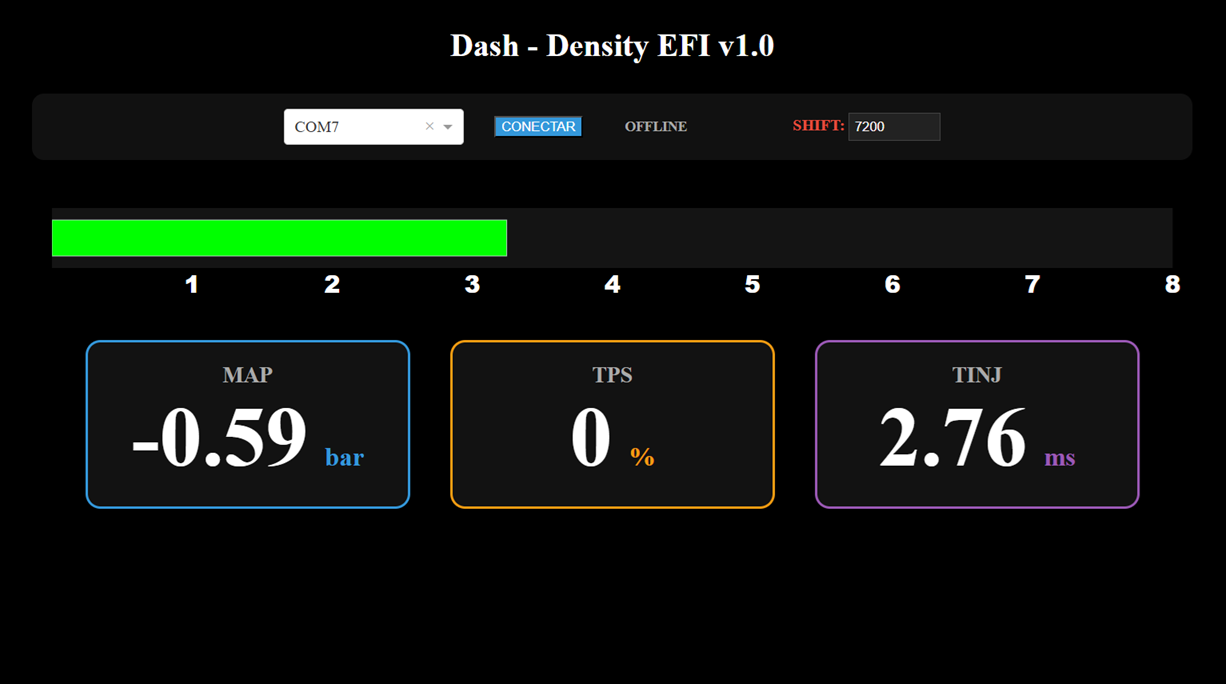
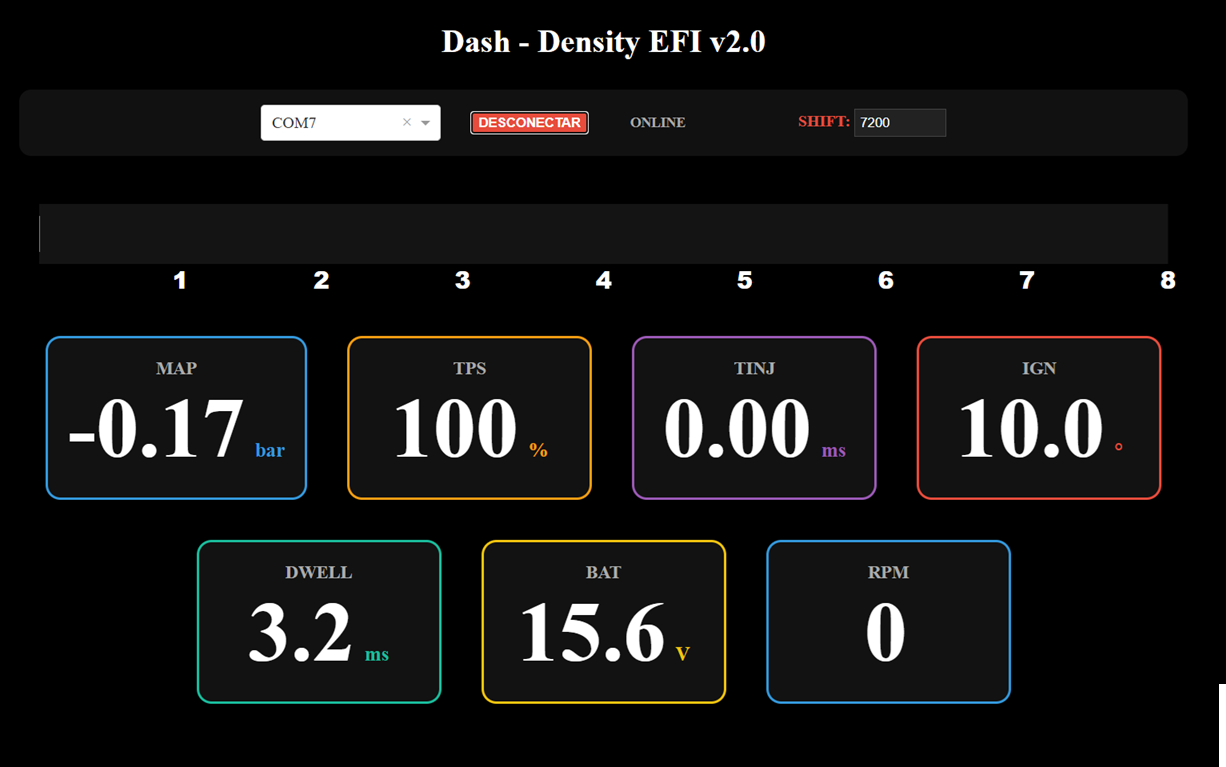
Add battery/ignition telemetry and UI v2.0
Dashboard: expand telemetry to include IGN, DWELL and BAT; parse 7 CSV values from serial and add corresponding UI cards (IGN, DWELL, BAT, large RPM card). Adjusted render_card to support large/small styles, updated layout and styling, renamed heading to v2.0, improved connect button styles, split card rows, and bind app to 127.0.0.1:8050. Firmware: add battery sensor constants and lerTensaoBateria() using a resistor divider, read battery voltage and include it (with IGN and DWELL) in the serial telemetry stream as: RPM,MAP,TPS,TINJ,IGN,DWELL,BAT. Also update Dashboard.png (binary asset changed).

diff --git a/Dashboard/DashV1.py b/Dashboard/DashV1.py
@@ -8,7 +8,15 @@ import threading
 import time
 
 # ================= CONFIG GLOBAL =================
-serial_data = {"RPM": 0, "MAP": 0.0, "TPS": 0.0, "TINJ": 0.0}
+serial_data = {
+    "RPM": 0, 
+    "MAP": 0.0, 
+    "TPS": 0.0, 
+    "TINJ": 0.0,
+    "IGN": 0.0,
+    "DWELL": 0.0,
+    "BAT": 0.0
+}
 last_data_time = 0 
 connection_active = False
 ser_instance = None
@@ -23,15 +31,19 @@ def serial_reader():
                     line = ser_instance.readline().decode(errors="ignore").strip()
                     if line:
                         parts = line.split(",")
-                        if len(parts) == 4:
+                        if len(parts) == 7:  # Agora esperamos 7 valores
                             try:
                                 with data_lock:
-                                    serial_data["RPM"]  = float(parts[0])
-                                    serial_data["MAP"]  = float(parts[1])
-                                    serial_data["TPS"]  = float(parts[2])
-                                    serial_data["TINJ"] = float(parts[3])
+                                    serial_data["RPM"]   = float(parts[0])
+                                    serial_data["MAP"]   = float(parts[1])
+                                    serial_data["TPS"]   = float(parts[2])
+                                    serial_data["TINJ"]  = float(parts[3])
+                                    serial_data["IGN"]   = float(parts[4])
+                                    serial_data["DWELL"] = float(parts[5])
+                                    serial_data["BAT"]   = float(parts[6])
                                 last_data_time = time.time()
-                            except: pass
+                            except:
+                                pass
             except:
                 connection_active = False
         time.sleep(0.01)
@@ -52,21 +64,34 @@ def create_rpm_bar(value, shift_limit, n_intervals):
                    tickvals=[1000, 2000, 3000, 4000, 5000, 6000, 7000, 8000],
                    ticktext=["1", "2", "3", "4", "5", "6", "7", "8"],
                    tickfont=dict(color="white", size=24, family="Arial Black")),
-        yaxis=dict(visible=False), plot_bgcolor="rgba(40, 40, 40, 0.5)",
-        paper_bgcolor="rgba(0,0,0,0)", margin=dict(l=20, r=20, t=10, b=30), height=100
+        yaxis=dict(visible=False), 
+        plot_bgcolor="rgba(40, 40, 40, 0.5)",
+        paper_bgcolor="rgba(0,0,0,0)", 
+        margin=dict(l=20, r=20, t=10, b=30), 
+        height=100
     )
     return fig
 
-def render_card(label, value, unit, border_color):
+def render_card(label, value, unit, border_color, large=True):
+    if large:
+        value_style = {"color": "white", "fontSize": "85px", "fontWeight": "bold"}
+    else:
+        value_style = {"color": "white", "fontSize": "45px", "fontWeight": "bold"}
+    
     return html.Div(style={
-        "backgroundColor": "rgba(20, 20, 20, 0.9)", "border": f"3px solid {border_color}",
-        "borderRadius": "15px", "padding": "20px", "margin": "10px", "flex": "1",
-        "textAlign": "center", "minWidth": "280px"
+        "backgroundColor": "rgba(20, 20, 20, 0.9)", 
+        "border": f"3px solid {border_color}",
+        "borderRadius": "15px", 
+        "padding": "20px", 
+        "margin": "10px", 
+        "flex": "1",
+        "textAlign": "center", 
+        "minWidth": "200px"
     }, children=[
-        html.Div(label.upper(), style={"color": "#AAA", "fontSize": "22px", "fontWeight": "900"}),
+        html.Div(label.upper(), style={"color": "#AAA", "fontSize": "18px", "fontWeight": "900"}),
         html.Div([
-            html.Span(value, style={"color": "white", "fontSize": "85px", "fontWeight": "bold"}),
-            html.Span(f" {unit}", style={"color": border_color, "fontSize": "26px", "fontWeight": "bold", "marginLeft": "10px"})
+            html.Span(value, style=value_style),
+            html.Span(f" {unit}", style={"color": border_color, "fontSize": "20px", "fontWeight": "bold", "marginLeft": "5px"})
         ])
     ])
 
@@ -76,12 +101,13 @@ app = dash.Dash(__name__)
 
 app.layout = html.Div(style={"backgroundColor": "#000", "minHeight": "100vh", "padding": "20px 40px"}, children=[
     
-    html.H1("Dash - Density EFI v1.0", style={"textAlign": "center", "color": "white", "fontWeight": "bold", "marginBottom": "30px"}),
+    html.H1("Dash - Density EFI v2.0", style={"textAlign": "center", "color": "white", "fontWeight": "bold", "marginBottom": "30px"}),
 
     # Toolbar
     html.Div(style={
         "display": "flex", "justifyContent": "center", "alignItems": "center", 
-        "gap": "30px", "marginBottom": "40px", "padding": "15px", "backgroundColor": "#111", "borderRadius": "12px"
+        "gap": "30px", "marginBottom": "40px", "padding": "15px", 
+        "backgroundColor": "#111", "borderRadius": "12px"
     }, children=[
         dcc.Dropdown(
             id='port-dropdown',
@@ -91,10 +117,11 @@ app.layout = html.Div(style={"backgroundColor": "#000", "minHeight": "100vh", "p
         ),
 
         html.Button("CONECTAR", id="btn-connect", n_clicks=0, style={
-            "fontSize": "16px", "fontWeight": "bold", "padding": "10px 20px", "borderRadius": "8px", "border": "none"
+            "fontSize": "16px", "fontWeight": "bold", "padding": "10px 20px", 
+            "borderRadius": "8px", "border": "none"
         }),
 
-        # LED e Status corrigidos
+        # LED e Status
         html.Div(style={"display": "flex", "alignItems": "center", "gap": "12px", "minWidth": "150px"}, children=[
             html.Div(id="led-indicator", style={
                 "width": "15px", "height": "15px", "borderRadius": "50%", "transition": "all 0.3s"
@@ -105,17 +132,27 @@ app.layout = html.Div(style={"backgroundColor": "#000", "minHeight": "100vh", "p
         html.Div([
             html.Label("SHIFT: ", style={"fontWeight": "bold", "color": "#e74c3c"}),
             dcc.Input(id="shift-input", type="number", value=7200, style={
-                "backgroundColor": "#222", "color": "white", "border": "1px solid #444", "padding": "5px", "width": "80px"
+                "backgroundColor": "#222", "color": "white", "border": "1px solid #444", 
+                "padding": "5px", "width": "80px"
             })
         ])
     ]),
 
     dcc.Graph(id="rpm-bar", config={'displayModeBar': False}),
 
+    # Primeira linha de cards (4 cards)
     html.Div(style={"display": "flex", "flexWrap": "wrap", "justifyContent": "center", "gap": "20px", "marginTop": "30px"}, children=[
         html.Div(id="map-container"),
         html.Div(id="tps-container"),
-        html.Div(id="tinj-container")
+        html.Div(id="tinj-container"),
+        html.Div(id="ign-container")
+    ]),
+    
+    # Segunda linha de cards (3 cards)
+    html.Div(style={"display": "flex", "flexWrap": "wrap", "justifyContent": "center", "gap": "20px", "marginTop": "20px"}, children=[
+        html.Div(id="dwell-container"),
+        html.Div(id="bat-container"),
+        html.Div(id="rpm-container")  # Card extra mostrando RPM em formato grande
     ]),
 
     dcc.Interval(id="update-timer", interval=100),
@@ -136,17 +173,26 @@ def handle_btn(n, port):
             try:
                 ser_instance = serial.Serial(port, 115200, timeout=0.1)
                 connection_active = True
-                return "DESCONECTAR", {"backgroundColor": "#e74c3c", "color": "white"}
+                return "DESCONECTAR", {"backgroundColor": "#e74c3c", "color": "white", "fontWeight": "bold"}
             except:
-                return "ERRO PORTA", {"backgroundColor": "#555", "color": "white"}
+                return "ERRO PORTA", {"backgroundColor": "#555", "color": "white", "fontWeight": "bold"}
     connection_active = False
-    if ser_instance: ser_instance.close(); ser_instance = None
-    return "CONECTAR", {"backgroundColor": "#3498db", "color": "white"}
+    if ser_instance: 
+        ser_instance.close()
+        ser_instance = None
+    return "CONECTAR", {"backgroundColor": "#3498db", "color": "white", "fontWeight": "bold"}
 
 @app.callback(
-    [Output("led-indicator", "style"), Output("status-text", "children"),
-     Output("rpm-bar", "figure"), Output("map-container", "children"),
-     Output("tps-container", "children"), Output("tinj-container", "children")],
+    [Output("led-indicator", "style"), 
+     Output("status-text", "children"),
+     Output("rpm-bar", "figure"), 
+     Output("map-container", "children"),
+     Output("tps-container", "children"), 
+     Output("tinj-container", "children"),
+     Output("ign-container", "children"),
+     Output("dwell-container", "children"),
+     Output("bat-container", "children"),
+     Output("rpm-container", "children")],
     [Input("update-timer", "n_intervals")],
     [State("shift-input", "value")]
 )
@@ -166,14 +212,25 @@ def sync_ui(n, shift):
         txt = "SEM DADOS"
 
     with data_lock:
-        rpm, m, t, i = serial_data["RPM"], serial_data["MAP"], serial_data["TPS"], serial_data["TINJ"]
+        rpm     = serial_data["RPM"]
+        m       = serial_data["MAP"]
+        t       = serial_data["TPS"]
+        i       = serial_data["TINJ"]
+        ign     = serial_data["IGN"]
+        dwell   = serial_data["DWELL"]
+        bat     = serial_data["BAT"]
 
     return (
-        led_s, txt,
+        led_s, 
+        txt,
         create_rpm_bar(rpm, shift, n),
         render_card("MAP", f"{m:.2f}", "bar", "#3498db"),
         render_card("TPS", f"{int(t)}", "%", "#f39c12"),
-        render_card("Tinj", f"{i:.2f}", "ms", "#9b59b6")
+        render_card("Tinj", f"{i:.2f}", "ms", "#9b59b6"),
+        render_card("IGN", f"{ign:.1f}", "°", "#e74c3c"),
+        render_card("DWELL", f"{dwell:.1f}", "ms", "#1abc9c"),
+        render_card("BAT", f"{bat:.1f}", "V", "#f1c40f"),
+        render_card("RPM", f"{int(rpm)}", "", "#3498db", large=True)
     )
 
 @app.callback(Output('port-dropdown', 'options'), Input('port-refresh', 'n_intervals'))
@@ -181,4 +238,4 @@ def refresh_ports(n):
     return [{'label': p.device, 'value': p.device} for p in serial.tools.list_ports.comports()]
 
 if __name__ == "__main__":
-    app.run(debug=False)
+    app.run(debug=False, host='127.0.0.1', port=8050)
